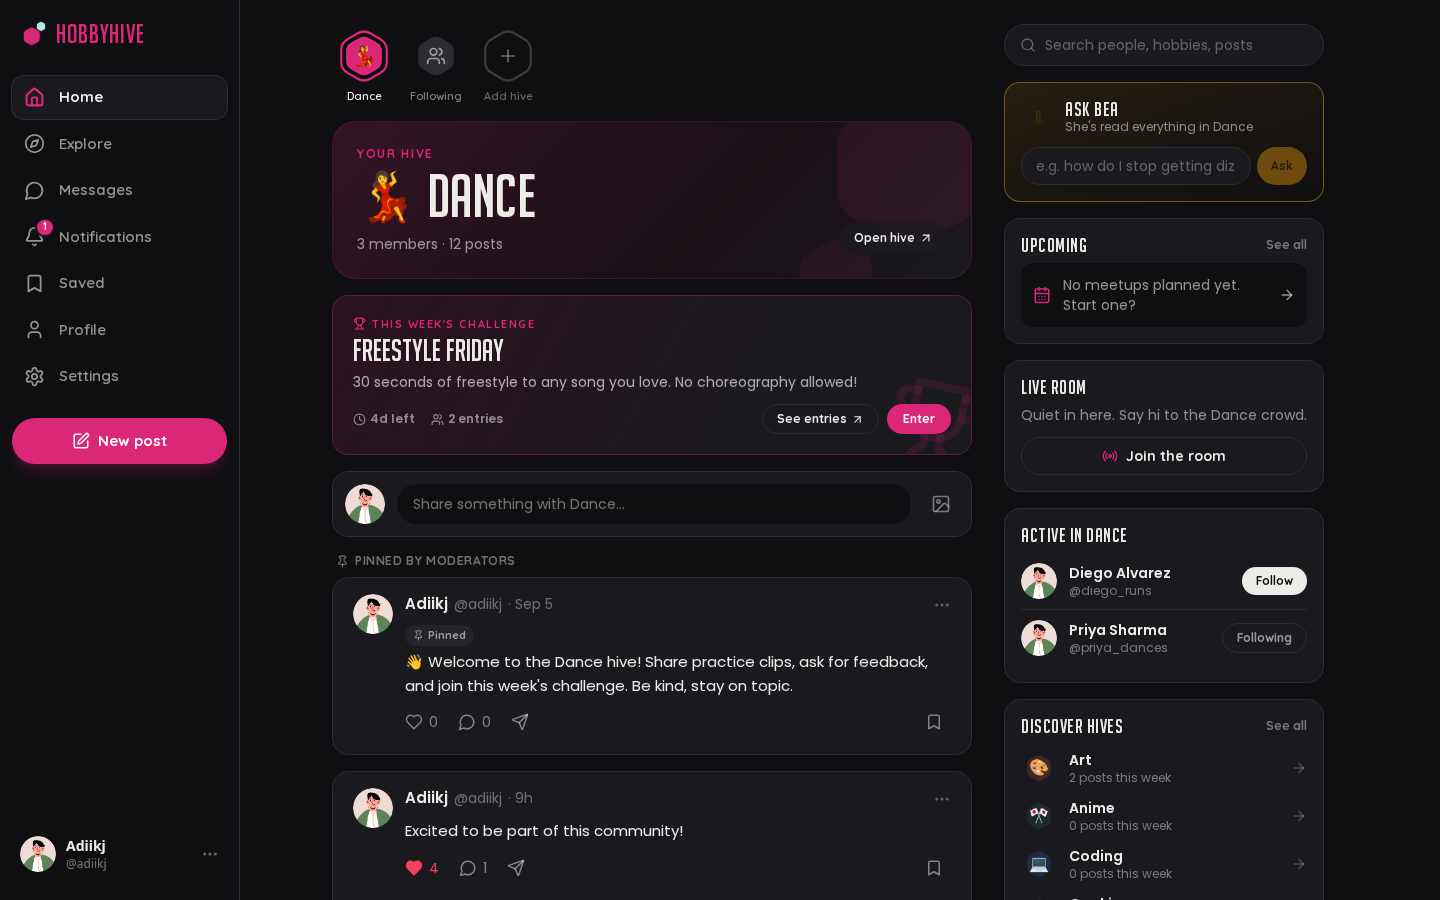
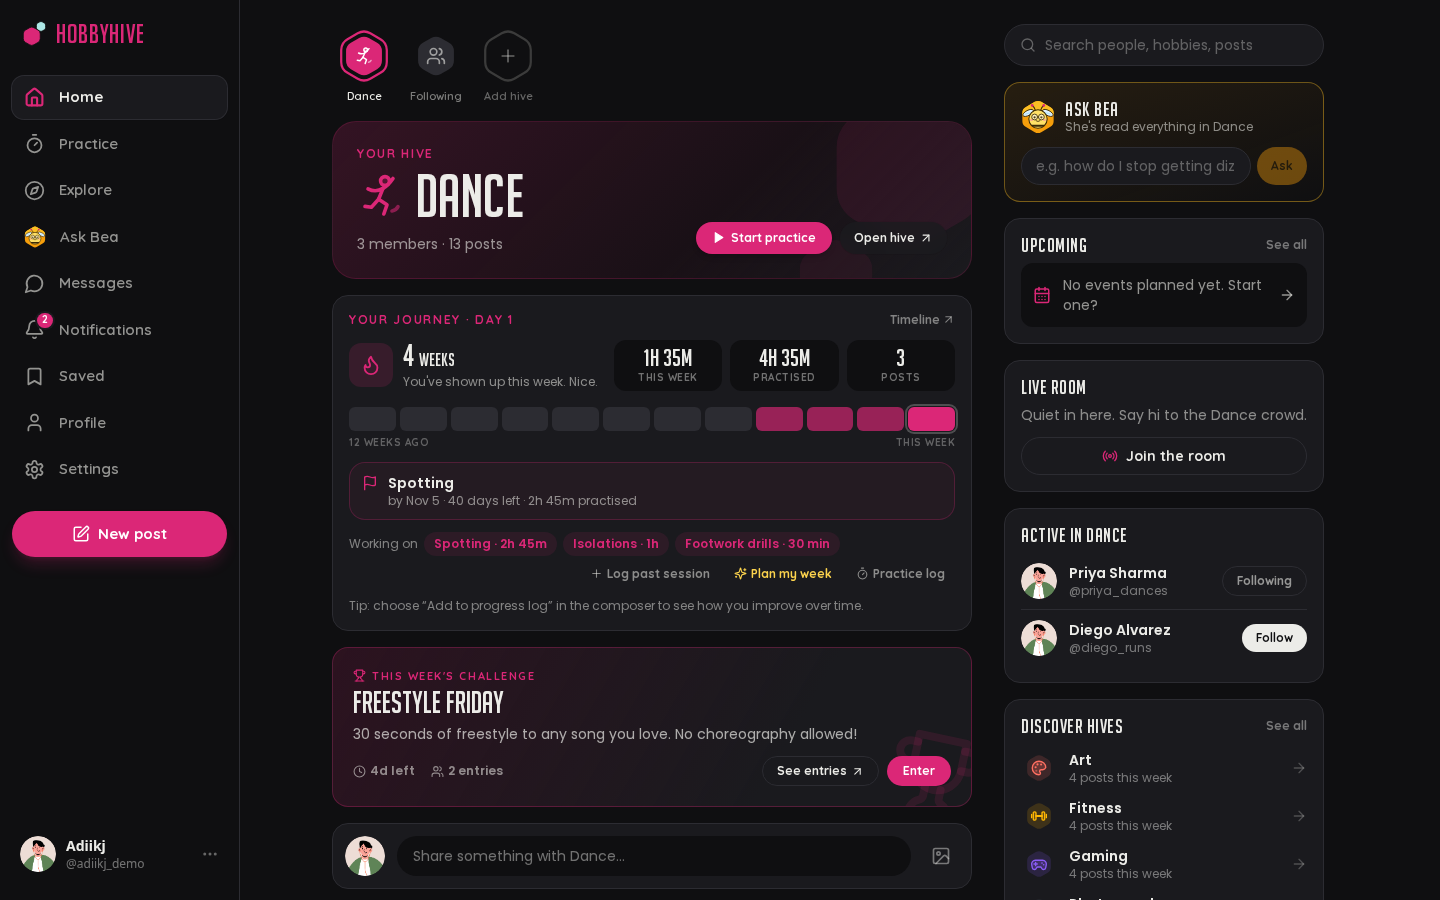
Refresh README and screenshots

diff --git a/README.md b/README.md
@@ -1,6 +1,6 @@
 <h1 align="center">HobbyHive</h1>
 
-<p align="center"><b>One hobby. One feed.</b><br>A social app where every hobby gets its own hive: a focused feed, weekly challenges, live rooms and an AI assistant that answers from what the community has actually shared.</p>
+<p align="center"><b>Your hobby. Your hive.</b><br>A hobby app that rewards doing the hobby, not posting about it: practice tracking, skill maps, structured feedback from people who've been there, and an AI coach grounded in what the community has actually shared.</p>
 
 <p align="center">
   <img alt="Next.js" src="https://img.shields.io/badge/Next.js_15-000?logo=nextdotjs&logoColor=white">
@@ -14,24 +14,33 @@
 
 ## Why
 
-Mixed feeds bury what you came for. On HobbyHive you pick dance, coding, art or whatever you're into, and you see that hobby only, alongside the people who share it.
+Social apps measure posts and likes. Getting better at a hobby is about practice, knowing what to work on next, and honest feedback. Each hobby on HobbyHive is its own hive, built around that.
 
 ## Features
 
-- **Hives:** one feed per hobby, moderators, pinned posts, a review queue for off-topic posts
-- **Weekly challenges** with entries, plus **events** and **progress** tracking
-- **Live rooms** and **direct messages** (Socket.IO)
-- **Explore:** trending hives, photo grid, search by meaning
-- **Profiles, follows, saved collections, notifications, dark mode**
-- **Ask Bea:** an assistant that answers questions using only the hive's posts and comments, cites every source and shows how it got there
+- **Practice:** a timer that follows you around the app, a practice log, and streaks that count practice (posting is optional)
+- **Skills and goals:** a curated skill map per hive, "learn X by then" goals, profiles that show skills rather than follower counts
+- **Feedback requests:** ask something specific; replies are "what's working" and "one thing to try", and helpful replies earn mentor levels
+- **Bea, the practice coach:** plans your week from your own sessions and goals, backed by cited posts from the hive
+- **Weekly recap** with personal bests, shareable to the hive
+- **Hive guides:** helpful feedback and top posts sorted by skill, curated by moderators and mentors
+- Also: hive feeds, weekly challenges, live rooms, events, DMs, explore, saved collections, dark mode
 
 <table>
   <tr>
-    <td><img src="docs/screenshots/ask-bea.png" alt="Ask Bea"><p align="center"><sub>Ask Bea: cited answers and a "Why this answer?" trace</sub></p></td>
-    <td><img src="docs/screenshots/explore.png" alt="Explore"><p align="center"><sub>Explore</sub></p></td>
+    <td><img src="docs/screenshots/skills.png" alt="Skill map"><p align="center"><sub>Skill map and goals</sub></p></td>
+    <td><img src="docs/screenshots/practice.png" alt="Practice log"><p align="center"><sub>Practice log and running timer</sub></p></td>
   </tr>
   <tr>
-    <td><img src="docs/screenshots/profile.png" alt="Profile"><p align="center"><sub>Profile</sub></p></td>
+    <td><img src="docs/screenshots/coach.png" alt="Bea's weekly plan"><p align="center"><sub>Bea's weekly plan, with cited tips</sub></p></td>
+    <td><img src="docs/screenshots/feedback.png" alt="Feedback request"><p align="center"><sub>Structured feedback</sub></p></td>
+  </tr>
+  <tr>
+    <td><img src="docs/screenshots/recap.png" alt="Weekly recap"><p align="center"><sub>Weekly recap</sub></p></td>
+    <td><img src="docs/screenshots/guide.png" alt="Hive guide"><p align="center"><sub>Hive guide</sub></p></td>
+  </tr>
+  <tr>
+    <td><img src="docs/screenshots/profile.png" alt="Profile"><p align="center"><sub>Profile: skills first</sub></p></td>
     <td><img src="docs/screenshots/dashboard-dark.png" alt="Dark mode"><p align="center"><sub>Dark mode</sub></p></td>
   </tr>
   <tr>
@@ -46,6 +55,7 @@ Mixed feeds bury what you came for. On HobbyHive you pick dance, coding, art or 
 | Hive suggestion and off-topic flagging | `bge-small` embeddings + logistic regression (79% accuracy on 13 classes) |
 | Search by meaning | pgvector cosine similarity + topic score (top-3 quality 0.57 → 0.90) |
 | Ask Bea | RAG: BM25 + dense retrieval fused with RRF, cut-off tuned by evaluation, extractive answers with citations; declines when the hive has no answer |
+| Practice coach | Rule-based plan from your sessions, goals and skill map; tips from the same retrieval, kept only when clearly on-topic |
 
 Details and evaluation reports: [`apps/ml`](apps/ml/README.md).
 
@@ -53,7 +63,7 @@ Details and evaluation reports: [`apps/ml`](apps/ml/README.md).
 
 ```
 apps/frontend   Next.js 15 + Tailwind        :3000   proxies /api and /socket.io to the backend
-apps/backend    Express + Prisma + Socket.IO :8000   auth, posts, hives, chat
+apps/backend    Express + Prisma + Socket.IO :8000   auth, posts, hives, practice, chat
 apps/ml         FastAPI + ONNX Runtime       :8002   embeddings, topic model, Ask Bea
 deploy/         systemd units for a 1 GB VM (API + ML in ~400 MB)
 ```
@@ -69,13 +79,13 @@ pnpm install
 cp apps/backend/.env.example apps/backend/.env      # set DATABASE_URL and token secrets
 cp apps/frontend/.env.example apps/frontend/.env
 pnpm db:migrate
-pnpm --filter @hobbyhive/backend db:seed
+pnpm --filter @hobbyhive/backend db:seed            # hives and their skill maps
 pnpm --filter @hobbyhive/backend db:seed:demo       # demo users and posts
 (cd apps/ml && uv sync)                             # optional: AI features (trained model is committed)
 npm run dev                                         # frontend, backend and ML together
 pnpm --filter @hobbyhive/backend ml:backfill --all  # once, with ML running: index existing posts
 ```
 
-Open http://localhost:3000 and sign in as `adiikj` / `DemoPassword123!` (the demo account).
+Open http://localhost:3000 and sign in as `adiikj@hobbyhive.test` / `DemoPassword123!` (the demo account).
 
 Tests: `pnpm test` (app) and `cd apps/ml && uv run pytest` (ML).
